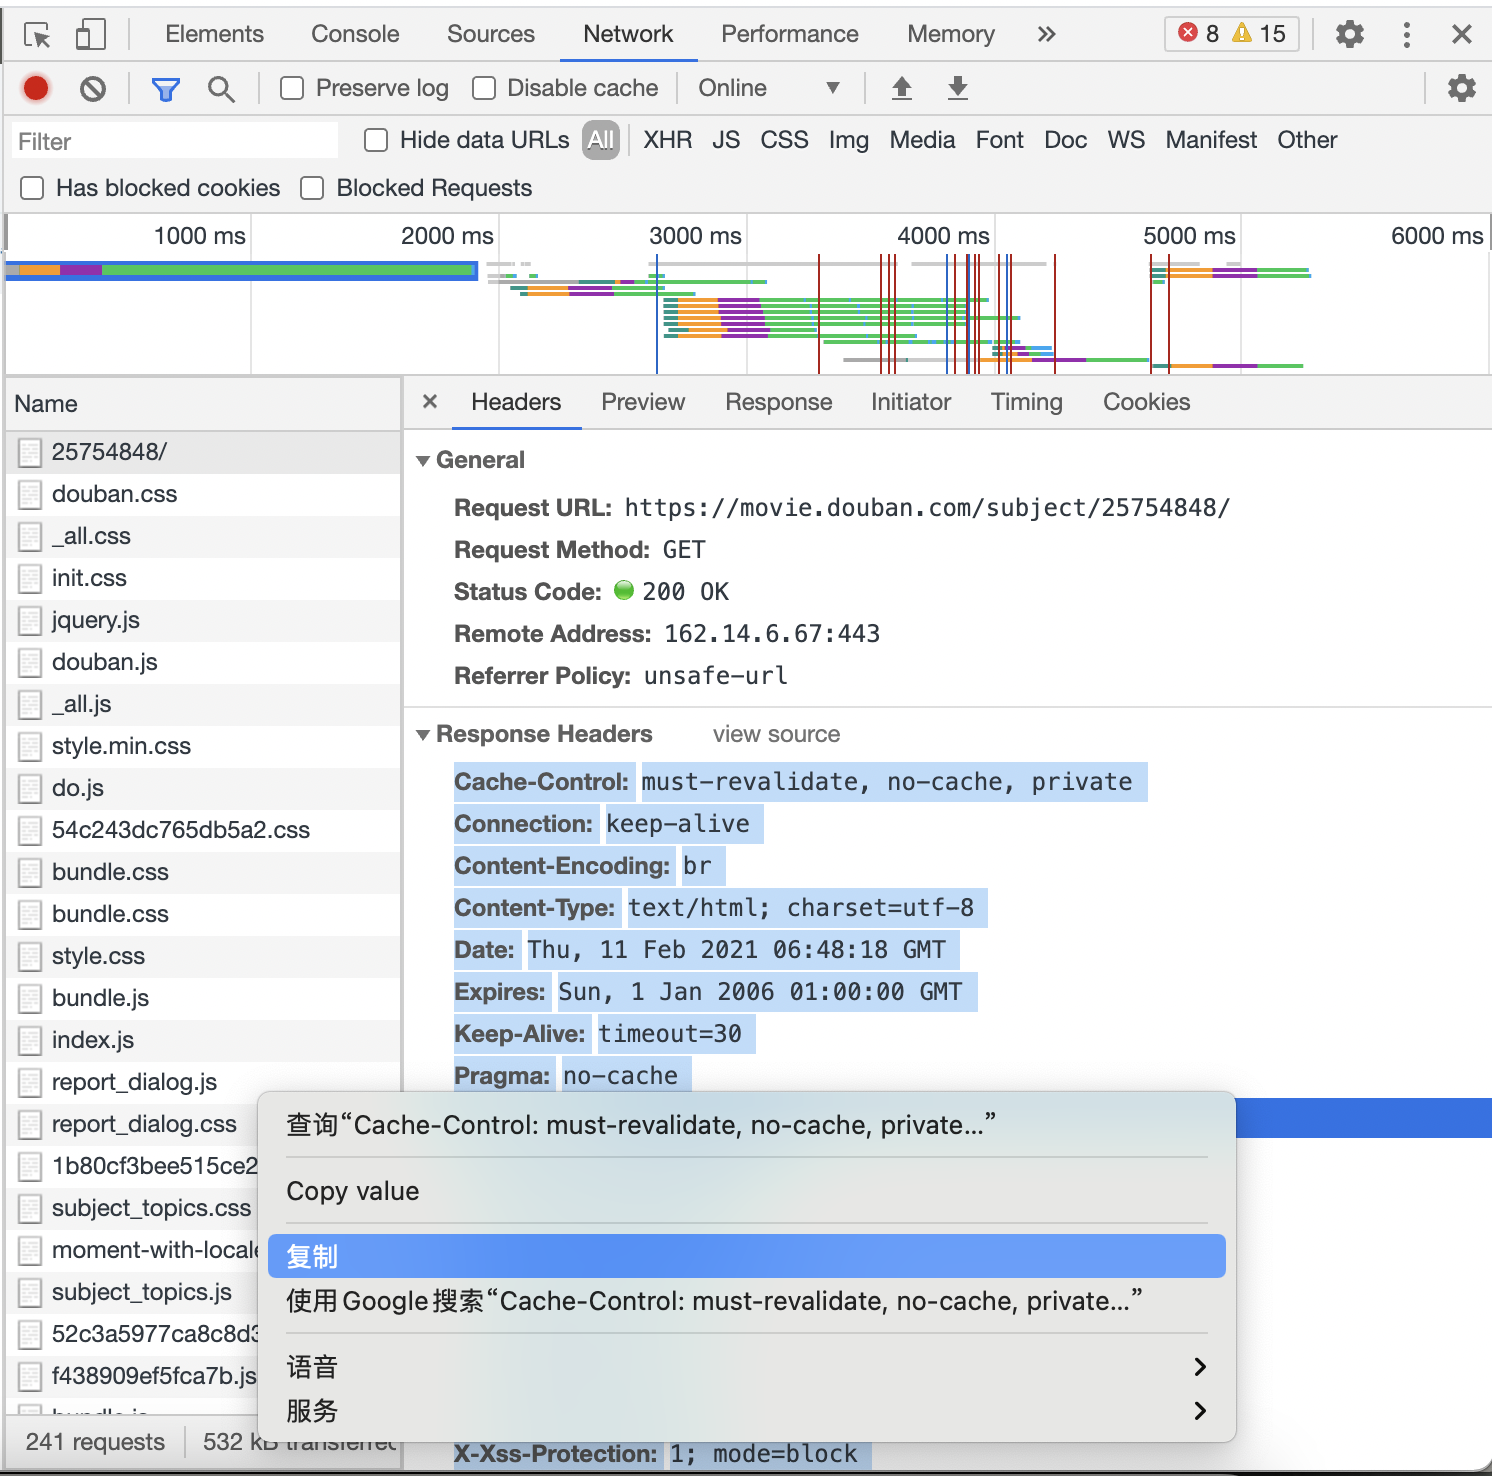
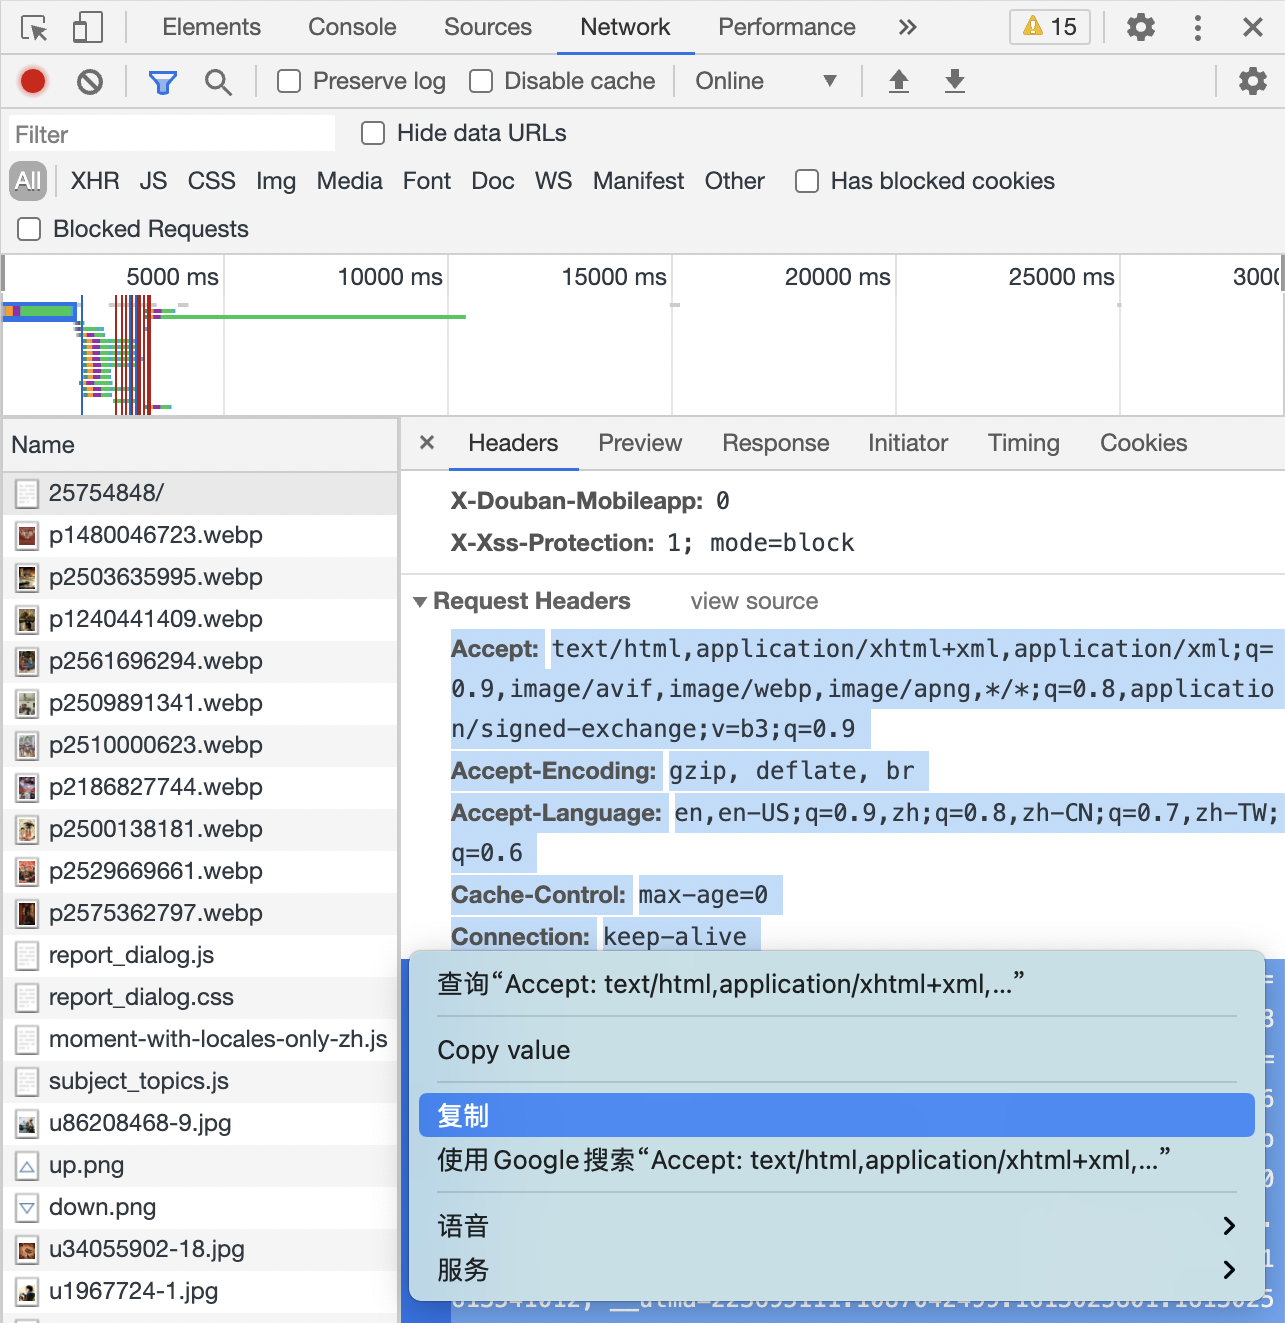
Update to "Request" Header

diff --git a/README.md b/README.md
@@ -28,7 +28,7 @@
 3. 用文本编辑器打开`douban_video_detector.py`文件，做如下改动：
 
     1. 用你在第1步中得到的豆伴文件名，替换`orgin_filename` 引号中的样例。
-    2. 在浏览器（推荐Chrome）中打开开发者工具，在登录状态下访问一个豆瓣网页（如 https://movie.douban.com/subject/25754848/ ），如下图所示得到“Response Headers”。复制，用它替换`header_str`引号中的样例。![](pics/2.png)
+    2. 在浏览器（推荐Chrome）中打开开发者工具，在登录状态下访问一个豆瓣网页（如 https://movie.douban.com/subject/25754848/ ），如下图所示得到“Request Headers”。复制，用它替换`header_str`引号中的样例。![](pics/2.png)
 
 4. 打开命令行，安装python3和需要的包。比如在macOS上，打开“终端”执行：
 
